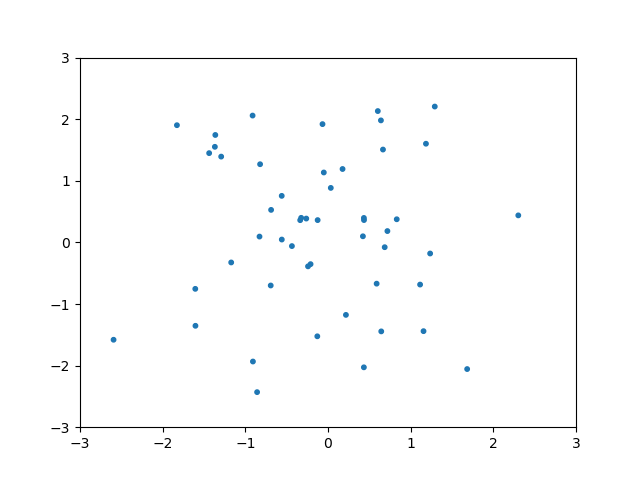
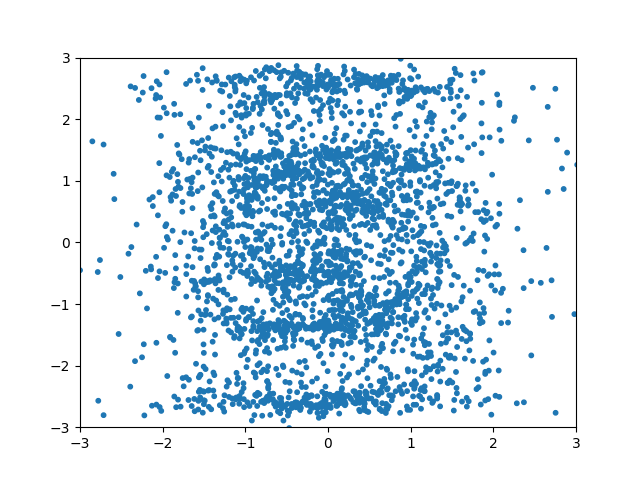
generic commit

diff --git a/scripts/transport/c_transport.py b/scripts/transport/c_transport.py
@@ -442,12 +442,11 @@ def compositional_gen(trained_models, ref_sample):
     for i in range(1, len(trained_models)):
         model = trained_models[i]
         #Y_eta = ref_sample[:, i]
-        X = model.map(X, model.Y_eta_test)
+        X = model.map(model.X_mu, model.Y_eta_test)
     return X
 
 
 def conditional_gen(trained_models, ref_sample, cond_sample):
-    ref_sample = geq_1d(ref_sample)
     X = geq_1d(cond_sample)
     #Y_eta = ref_sample[:, 0]
     for i in range(0, len(trained_models)):
@@ -491,7 +490,7 @@ def conditional_transport_exp(ref_gen, target_gen, N = 1000, n_iter = 1001, slic
 
     d = len(gen_sample[0])
     if d <=2:
-        sample_scatter(gen_sample, f'{save_dir}/gen_scatter.png', bins=25, d = d, range = plt_range)
+        #sample_scatter(gen_sample, f'{save_dir}/gen_scatter.png', bins=25, d = d, range = plt_range)
         sample_scatter(target_gen(N), f'{save_dir}/target.png', bins=25, d=d, range=plt_range)
     return True
 
@@ -508,7 +507,7 @@ def run():
     slice_range = [-3,3]
     process_funcs = []
     #process_funcs = [flip_2tensor, flip_2tensor ]
-    conditional_transport_exp(ref_gen, target_gen, exp_name= 'spiral_hybrid', N = 3000, n_iter = 6005,
+    conditional_transport_exp(ref_gen, target_gen, exp_name= 'spiral_hybrid', N = 5000, n_iter = 8001,
                               plt_range=range, slice_range= slice_range, process_funcs=process_funcs, slice_vals=[0])
 
 
